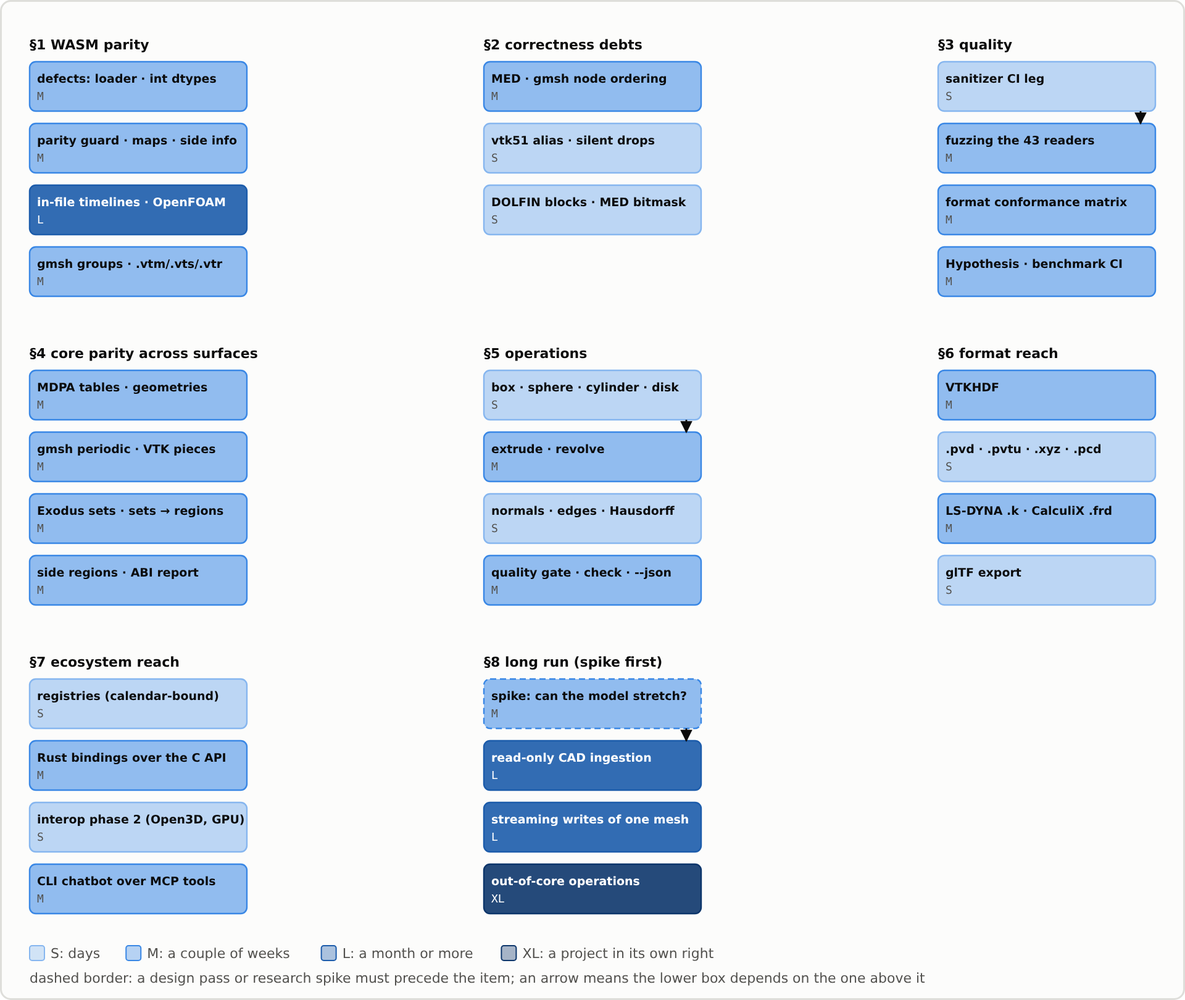
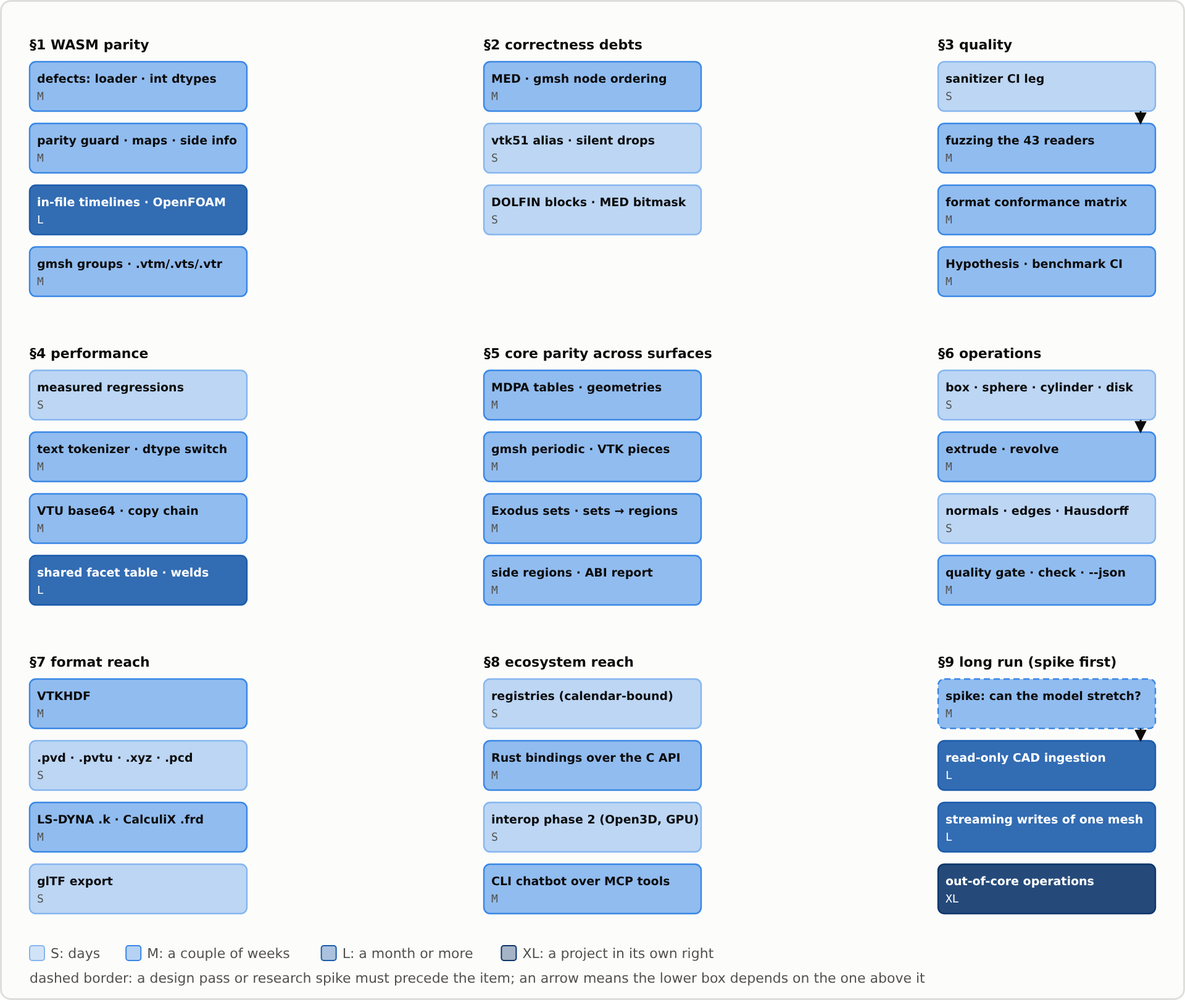
Update roadmap references in agglomerate operation documentation
- Corrected the section reference in the agglomerate operation header comment from §5 to §6 in `agglomerate.hpp` to reflect the updated roadmap structure.

diff --git a/doc/diagrams/figures/flows.py b/doc/diagrams/figures/flows.py
@@ -967,7 +967,17 @@ def roadmap_map():
             [(0, 1)],
         ),
         (
-            "§4 core parity across surfaces",
+            "§4 performance",
+            [
+                ("measured regressions", "S"),
+                ("text tokenizer · dtype switch", "M"),
+                ("VTU base64 · copy chain", "M"),
+                ("shared facet table · welds", "L"),
+            ],
+            [],
+        ),
+        (
+            "§5 core parity across surfaces",
             [
                 ("MDPA tables · geometries", "M"),
                 ("gmsh periodic · VTK pieces", "M"),
@@ -977,7 +987,7 @@ def roadmap_map():
             [],
         ),
         (
-            "§5 operations",
+            "§6 operations",
             [
                 ("box · sphere · cylinder · disk", "S"),
                 ("extrude · revolve", "M"),
@@ -987,7 +997,7 @@ def roadmap_map():
             [(0, 1)],
         ),
         (
-            "§6 format reach",
+            "§7 format reach",
             [
                 ("VTKHDF", "M"),
                 (".pvd · .pvtu · .xyz · .pcd", "S"),
@@ -997,7 +1007,7 @@ def roadmap_map():
             [],
         ),
         (
-            "§7 ecosystem reach",
+            "§8 ecosystem reach",
             [
                 ("registries (calendar-bound)", "S"),
                 ("Rust bindings over the C API", "M"),
@@ -1007,7 +1017,7 @@ def roadmap_map():
             [],
         ),
         (
-            "§8 long run (spike first)",
+            "§9 long run (spike first)",
             [
                 ("spike: can the model stretch?", "M"),
                 ("read-only CAD ingestion", "L"),

diff --git a/src/cpp/include/meshioplusplus/operations/agglomerate.hpp b/src/cpp/include/meshioplusplus/operations/agglomerate.hpp
@@ -97,7 +97,7 @@
  * Coplanar boundary-face merging (fusing two adjacent group-boundary faces on
  * the same plane into one larger polygon, rather than leaving the edge
  * between them) and a shape-quality (e.g. sphericity) absorption gate are
- * both deferred follow-ups, not shipped here — see `doc/roadmap.md` §5.
+ * both deferred follow-ups, not shipped here — see `doc/roadmap.md` §6.
  *
  * Everything is standard C++ and the uniform mesh API only, so it compiles
  * under every mesh backend. This is an operation, not a file format — it is

diff --git a/doc/roadmap.md b/doc/roadmap.md
@@ -10,7 +10,7 @@ Effort key: **S** = days, **M** = a couple of weeks, **L** = a month or more, **
 
 - **Sections are ordered, and the order is the recommendation.** Each section states what belongs in it; an item that sounds exciting does not move up for that reason. An empty section is removed, not kept as a placeholder.
 - **A closed item is removed, not struck through.** Its history is the `CHANGELOG.md` entry and the feature's own `doc/` page; a partly closed item is narrowed to what remains (the `AGENTS.md` change checklist rule).
-- **Defect-shaped items go to [§2](#_2-correctness-debts) regardless of size** — behaviour that loses data, mis-orients cells or fails silently is not a feature request, even when the fix and the feature are the same work.
+- **Defect-shaped items go to [§2](#_2-correctness-debts) regardless of size** — behaviour that loses data, mis-orients cells, does not terminate on valid input or fails silently is not a feature request, even when the fix and the feature are the same work.
 - **An item estimated from a doc, a `.d.ts` or a changelog alone says so** ("verify first") and names its probe; the code has repeatedly been more or less capable than its description.
 - **[Non-goals](#non-goals-and-decisions-taken) record decisions already taken**, with their reasons, so they are not re-proposed as gaps.
 
@@ -46,7 +46,7 @@ Effort key: **S** = days, **M** = a couple of weeks, **L** = a month or more, **
 - **In-file timelines.** Only XDMF, Exodus and GiD report real time values; each fix below is independent and closes a row of the downstream extension's transient audit (which pins today's behaviour, so each lands as a visible diff there). MED: a `read_med_metadata` filling `mTimeValues` (today metadata falls back to a full default read, which rejects a multi-step field — the sequence layer then closes for free, see [sequences](./sequences.md)). CGNS: `BaseIterativeData`/`ZoneIterativeData` and one solution per step, instead of every `FlowSolution` loading into the same name. Tecplot: every `ZONE` with its `SOLUTIONTIME`/`STRANDID`, instead of stopping at the first. Gmsh: `$NodeData`/`$ElementData` time tags, instead of keeping the first section per name. EnSight: a transient `model:` wildcard plus `VARIABLE`/`TIME`, instead of throwing on `*`. *Probe (each):* a two-step fixture whose `readMetadata(path).timeValues` has length 2. **L in total, S–M each**
 - **OpenFOAM beyond one polyMesh.** Read `cellZones`/`faceZones`/`pointZones` as cell/side/point regions, and write them back — the writer currently *deletes* existing zone files as stale. Select a region in multi-region cases (`constant/<region>/polyMesh`), reconstruct decomposed `processor*/` cases, and read time-directory `vol*Field`/`point*Field` dictionaries onto the mesh. *Lifts:* the downstream extension parsing time directories natively in TypeScript, and its zone and multi-region/decomposed diagnostics. *Probe:* a case with one `cellZones` entry round-tripped through `readMesh`/`writeMesh`. **M–L**
 - **Named groups surviving a Gmsh 4.1 export.** `$PhysicalNames` rows are emitted only for regions with a tag ≥ 0, and membership only exists where `gmsh:dim_tags` does, so groups read from Abaqus, MED or MDPA (tag −1) vanish in a `.msh` export. Allocate physical tags for untagged regions and write the `$Entities` that carry their membership. *Lifts:* the downstream "SubModelParts do not survive a gmsh export" constraint. *Probe:* an Abaqus `ELSET` round-tripped through `.msh`. **M**
-- **VTK XML structured and multiblock files.** `.vti` is the only structured XML format; there is no `.vts`/`.vtr` reader or writer and no `.vtm` at all. A `.vtm` writer is an index plus one piece file per block, with the pieces reported by the written-paths list above — the same index-plus-pieces machinery as `.pvd`/`.pvtu` in [§6](#_6-format-reach), so one implementation serves both. *Lifts:* the downstream extension's read-only multiblock and structured-grid support. *Probe:* write two blocks to `.vtm`, read them back as two meshes. **M**
+- **VTK XML structured and multiblock files.** `.vti` is the only structured XML format; there is no `.vts`/`.vtr` reader or writer and no `.vtm` at all. A `.vtm` writer is an index plus one piece file per block, with the pieces reported by the written-paths list above — the same index-plus-pieces machinery as `.pvd`/`.pvtu` in [§7](#_7-format-reach), so one implementation serves both. *Lifts:* the downstream extension's read-only multiblock and structured-grid support. *Probe:* write two blocks to `.vtm`, read them back as two meshes. **M**
 
 **Deliberately not**, and recorded so it is not re-proposed:
 
@@ -62,7 +62,7 @@ Effort key: **S** = days, **M** = a couple of weeks, **L** = a month or more, **
 
 ## 2. Correctness debts
 
-*Admission: behaviour that loses data, mis-orients cells, or drops something without saying so. First regardless of size, and each is independently shippable.*
+*Admission: behaviour that loses data, mis-orients cells, does not terminate on valid input, or drops something without saying so. First regardless of size, and each is independently shippable.*
 
 - **MED quadratic 3-D node ordering is not converted.** `tetra10`, `hexahedron20`, `pyramid13` and `wedge15` are read and written with a warning and no meshio++↔MED permutation in either engine (`src/cpp/src/formats/med.cpp`, `src/python/meshioplusplus/med/_med.py`), so they may be mis-oriented for Salome, code_aster and code_saturne — the tools the format exists for. The linear 3-D permutations beside them are the template. *Probe:* a Salome-written `tetra10`/`hexahedron20` fixture whose cell volumes are all positive after a read. **S–M**
 - **Gmsh `pyramid14` (and `wedge18`) node ordering is not permuted.** Both engines' reorder tables stop at `pyramid13`/`wedge15`, while [cell types](./cell_types.md) documents `pyramid14` as `pyramid13` plus a base-centre node and gmsh's own type 14 is edge-lexicographic. *Probe:* a gmsh-generated second-order pyramid whose base-centre node lies on the base plane after a read. **S, verify first**
@@ -70,6 +70,9 @@ Effort key: **S** = days, **M** = a couple of weeks, **L** = a month or more, **
 - **Writers that drop data without a warning.** The C++ AVS-UCD writer keeps only the first integer cell-data array, silently (the Python writer warns); the SVG and TikZ writers skip unsupported cell blocks with no warning at all ([SVG](./formats/svg.md), [TikZ](./formats/tikz.md)). Every other writer follows warn-and-skip, and provenance's conversion assumptions sweep those warnings. *Probe:* each writer under `pytest.warns`. **S**
 - **DOLFIN writes every cell-data block to the same sibling file.** `write_dolfin` loops over `CellDataNumBlocks` but names each file `<stem>_<name>.xml` without the block, so on a multi-block mesh the last block overwrites the earlier ones. Write the one simplicial block the mesh file actually holds, and pin it. *Probe:* two triangle blocks with distinct cell data; read the sibling back. **S, verify first**
 - **The C++ MED writer emits no MED 4.1 field bitmask attributes** (`LEN`/`LGC`/`LNA`/…), which the Python writer does; every flat binding and the native CLI use the C++ writer with no Python to defer to. The source calls this an interoperability gap with Salome/MEDCoupling, while [MED](./formats/med.md) calls the attributes required for medfile/mdump — establish which is true with `mdump` before sizing the fix. *Probe:* a C++-written, field-carrying `.med` opened by medfile. **S–M, verify first**
+- **VTU polyhedron reconstruction is quadratic in the cell count.** `reconstruct_cells` (`src/cpp/src/detail/vtk_cells.cpp`) finds where each polyhedral cell's face stream begins by rescanning `faceoffsets` from index 0 for the previous non-negative entry — Θ(n²) iterations, so 100k polyhedra cost ~5·10⁹ steps and a 1M-cell OpenFOAM-derived VTU effectively hangs. One running "last end offset" carried across the loop makes it linear. *Probe:* a 100k-polyhedron VTU that reads within a fixed time budget. **S**
+- **Number parsing follows the process locale.** 31 C++ readers parse with `strtod`/`strtoll` — chosen over `std::from_chars` because its floating-point overload is an Emscripten/libc++ hazard (`gid_read.cpp`) — and no first-party code pins `LC_NUMERIC`, so a host that adopts the environment's locale — Qt applications call `setlocale(LC_ALL, "")` at startup, as does any Python code that runs `locale.setlocale(locale.LC_ALL, "")` — may read `1.5` as `1` under a comma-decimal locale. A `detail/fast_number.hpp` that uses `from_chars`/`to_chars` where `<version>` reports `__cpp_lib_to_chars` and a C-locale `strtod_l` otherwise — the feature-test pattern `detail/format_compat.hpp` already uses — fixes it and is the base of the [§4](#_4-performance) text-I/O items. *Probe:* read an ASCII fixture from Python after `locale.setlocale(locale.LC_ALL, "de_DE.UTF-8")`. **S–M, verify first**
+- **Reader fallback prints to stdout and swallows the reason.** `read()` `print`s the error for every ambiguous-extension candidate that fails (a `.msh` tries `ansys`, `gmsh` and `freefem` in turn, `_helpers.py`), which pollutes a CLI pipeline's output, and over forty format packages wrap the C++ reader in `except Exception: pass`, so nobody can see why the fast path declined. Route both through `warnings`/logging and let only a recognised "not handled here" exception fall back. **S**
 
 ---
 
@@ -79,19 +82,76 @@ Effort key: **S** = days, **M** = a couple of weeks, **L** = a month or more, **
 
 - **A sanitizer CI leg** — ASan and UBSan over the existing `cpp-tests` job. No workflow passes `-fsanitize` today, and a fuzzer that finds a crash without one reports a symptom rather than the out-of-range read behind it. The precondition for the next item. **S**
 - **Fuzzing the readers** (libFuzzer, then OSS-Fuzz if the project is accepted). 43 mostly hand-rolled parsers are reachable from a C ABI, a browser, a VS Code extension and an MCP server — untrusted input reaches them by design. One fuzz target per `registry_readers()` entry, seeded from `tests/python/meshes/`. The highest-value non-feature item in this document. **M**
-- **A format conformance matrix** — one canonical mesh written to and read back from every writable format, asserting per format what survives (points, each cell type, point/cell/field data and their dtypes, each region kind) against a declared expectation. `tests/python/test_region_roundtrip.py` already does this for regions over Gmsh/Abaqus/MED, and `tests/cpp/test_sequence.cpp`'s `WriteSupportsTimeAgreesWithReality` is the registry-iterating shape to generalise it to. The declared expectations become a lossiness column in the [format table](./formats.md), which today has only Read/Write/dependencies, with lossiness scattered across its notes and fifty-five per-format quirks sections. The canonical mesh should be a primitive constructor from [§5](#_5-operations). **M**
+- **A format conformance matrix** — one canonical mesh written to and read back from every writable format, asserting per format what survives (points, each cell type, point/cell/field data and their dtypes, each region kind) against a declared expectation. `tests/python/test_region_roundtrip.py` already does this for regions over Gmsh/Abaqus/MED, and `tests/cpp/test_sequence.cpp`'s `WriteSupportsTimeAgreesWithReality` is the registry-iterating shape to generalise it to. The declared expectations become a lossiness column in the [format table](./formats.md), which today has only Read/Write/dependencies, with lossiness scattered across its notes and fifty-five per-format quirks sections. The canonical mesh should be a primitive constructor from [§6](#_6-operations). **M**
 - **Property-based testing** (Hypothesis) over the invariants the docs already articulate: partition-of-unity, volume conservation, conformity, byte-identical determinism, map composition. **M**
-- **A large-mesh benchmark tier with a CI leg.** The suite exists (`benchmark/`, up to ~1M synthetic tets in Python, 257k in the C++ backend benchmark, which is off by default) but no CI job runs any of it, so a performance regression is found by a user. Add a 10M+ cell tier and a scheduled job that records rather than gates; it also decides whether the two scale items in [§8](#_8-long-run-spike-first) matter at all. **S**
+- **A benchmark harness that covers what ships, with a CI leg.** The suite exists (`benchmark/`, up to ~1M synthetic tets in Python, 257k in the C++ backend benchmark, which is off by default) but no CI job runs any of it, so a performance regression is found by a user. It is also narrow: `benchmark/bench.py` times 6 format labels of the 43 the core reads, and [benchmarks](./benchmarks.md) has no numbers for any operation or for the parallel backends — `src/cpp/benchmark/bench_backends.cpp` compares mesh backends only. Widen `bench.py` to every registry format; add a `bench_ops.cpp` (`extract_surface`, `smooth`, `refine`, `merge`, `clean`, `compute_sdf`, `decimate`, `partition`, `reorder`) over a size sweep and SEQ/OpenMP/TBB/Kokkos; add a 10M+ cell tier; run it on a schedule that records rather than gates. Every [§4](#_4-performance) item is gated on this showing its before/after, and it decides whether the scale items in [§9](#_9-long-run-spike-first) matter at all. **S–M**
 - **Test and install the ParaView plugin.** `tools/paraview-meshioplusplus-plugin.py` ships as a reader and writer, but nothing tests it, and the `data_files` entry that would install it is commented out in `pyproject.toml`, so [its page](./paraview_plugin.md) describes a plugin path nothing writes. A `pvpython` smoke step plus the install fix. **S**
 
 ---
 
-## 4. Core parity across surfaces
+## 4. Performance
+
+*Admission: a measured or code-verified slowdown in a path a user hits, with the shape of the fix named. Nothing here is scheduled before the [§3](#_3-quality-of-implementation) harness can show its before/after.*
+
+Two findings frame the section. First, **the serial phases below are deliberate**: each is documented in the code as a determinism pin, not an oversight — output is byte-identical across parallel backends and thread counts, and the reference-file tests enforce it — so every fix must keep that guarantee and prove it with a SEQ-versus-OpenMP diff, not assert it. Second, **every parallel item is conditional on the backend**: a SEQ build (and the `stl` fallback without TBB) runs `parallel_for` sequentially, so each change must also show that SEQ does not get slower — a parallel sort is O(n log n) where the hash map it replaces is O(n).
+
+**Measured regressions** (verify first: `benchmark/results.csv` is one run on one machine). Gmsh binary write at 0.68× legacy meshio and MED read at 0.81–0.93×, both reported as parity or better in [benchmarks](./benchmarks.md) until this change; XDMF (HDF5) write at 0.92–0.97×; XDMF read at 1.0× on a single-block mesh against 10× on mixed topology, which suggests the post-read conversions — `xdmf.cpp` has no `parallel_for` at all. Re-measure on the widened harness, then profile. **S each to size**
+
+**Text I/O.**
+
+- **A shared tokenizer and number path.** 29 readers split each line with `std::istringstream` and `>>` into a `std::vector<std::string>` — one stream and N heap allocations per line (`su2.cpp`, `vtk_read.cpp`, `mdpa.cpp`, `avsucd.cpp`, `tecplot.cpp`, `unv.cpp`, `flac3d.cpp` and 22 more) — while `gmsh.cpp`'s `GmshCursor`, a `string_view` cursor calling `strtod` straight on the buffer, is the in-repo model to copy. Built on the `fast_number.hpp` from [§2](#_2-correctness-debts) and migrated reader by reader against the reference files. The worst cases: XDMF ASCII `DataItem`s (a `std::string` and a dtype switch per scalar), VTU ASCII arrays (`push_back` with no `reserve`, then a second pass with a dtype switch per element) and `mdpa.cpp`, which materializes one `std::string` per line of the whole file before parsing. **M**
+- **Hoist the per-element dtype switch.** `detail::dispatch_dtype` (`detail/value_io.hpp`) exists to move a `DType` switch out of a hot loop, and is used in 14 source files against nearly 500 per-element `read_double`/`read_int`/`read_point` call sites. In I/O the hot ones are the VTU ASCII writer and `vtu_to_int64` (`detail/vtk_xml.cpp`) and the Exodus reader's index shift, coordinate transpose and `column_stack` (`exodus.cpp`), which are also fully serial — the exact treatment MED already had, which took it from 0.2–0.6× to parity. **S each**
+- **Parallel row formatting in ASCII writers.** `abaqus.cpp` and `ansysinp.cpp` format rows in parallel into one string per row and stream them in order, with byte-identical output; `vtu`, `vtp`, `vtk`, `medit` and `tecplot` still format serially with a locale-aware `ostream << int` per index, and the OpenFOAM writer formats every coordinate through `ostream << std::setprecision(16)`, the slowest formatting route in the standard library. The reference files are the gate, not the claim — `setprecision(16)`'s exact output has to be reproduced. **S per writer**
+
+**Binary I/O (VTU).**
+
+- **`b64decode` is serial and pushes one byte at a time** (`detail/vtu_binary.cpp`), while `b64encode` beside it is parallel; decode is the VTU read hot path. Its inverse table is guarded by a hand-rolled `static bool init`, which is a data race as soon as decoding is parallel or the GIL is released — replace it with a magic static in the same change. A branchless resize-then-index loop first, then parallel chunks after a whitespace pre-scan (chunks are not independent without one). **S**
+- **The VTU binary read copies each payload five or six times**: `vtu_strip` copies the base64 text and then `substr`s it, `vtu_parse_binary` decodes into a `std::vector` and `memcpy`s that into the array, `vtu_decode_uncompressed` builds another vector to strip the header, and the codec returns one `std::vector` per 32 KiB block which is then copied again (on write, the blocks are concatenated with no `reserve`). Decode straight into the destination array; independent `<DataArray>`s can then decode in parallel. It roughly halves peak memory too. **M**
+- **Raw `<AppendedData>` is not supported** in either direction. It is the VTU encoding with no base64 at all, so files meshio++ writes could skip both items above; a format-reach item as much as a performance one. **M**
+
+**Memory and allocation.**
+
+- **Small, mechanical:** five readers slurp the file by hand instead of going through `detail/file_source.hpp` (`ply`, `medit`, `ansys`, `wkt`, `stl`), and several accumulate without `reserve` although the count is in the header (`gid_read.cpp`, `openfoam.cpp`, `ansysinp.cpp`, `unv.cpp`). **S**
+- **Per-cell heap allocations in every polyhedral reader.** `AddPolygonBlock`/`AddPolyhedronBlock` take nested `std::vector`s, so the CGNS, EnSight, MED, OpenFOAM, UNV, FLAC3D and VTU readers allocate one vector per cell and one per face; the VTU path additionally sorts each cell's nodes and buckets cells through a `std::map`. A CSR ingestion overload — flat node ids plus face and cell offsets, the shape the WASM binding already crosses with — removes all of it at once. It changes the installed API, so it pairs with an ABI bump. **M–L**
+
+**Serial phases inside parallel operations.**
+
+- **One shared, deterministic facet and edge table.** Seven places fill facet or edge keys in parallel and then deduplicate them through a single-threaded `unordered_map` (`surface.cpp`, `smooth.cpp`, `partition.cpp`, `convert_cells.cpp`, `refine.cpp`, `detail/marching.cpp`, `detail/surface_distance.cpp`) — on a 10M-tet mesh, ~40M hash operations on one core while the rest idle; it is the dominant phase of `extract_surface`, `extract_skin`, `smooth`, `partition`, `refine` and `elevate`. Nine independent key and hash types exist for it, and `detail/face_mesh.hpp` has only four consumers. `refine.cpp` already states the property a parallel version needs — numbering is a pure function of (block, cell, slot) — so a parallel sort of (key, slot) followed by a segmented first-occurrence scan reproduces it exactly there; the other six sites need that argument made before the claim. `parallel.hpp` has only `parallel_for`, so the first step is a `parallel_sort`/`parallel_reduce` primitive; the second is caching the table so an N-step pipeline stops rebuilding it N times. **L**
+- **`optimize_volume` rebuilds everything on every sweep** — a fresh `Mesh` with new point and connectivity arrays, `smooth`'s node adjacency and boundary hash, and three single-threaded `unordered_map`s for the 2-3 and 3-2 flips — with one `parallel_for` in the whole file. Hoist the adjacency out of the sweep and maintain the face and edge maps across flips. **S–M**
+- **Welding is single-threaded.** `clean` keeps its own point grid rather than `detail::SpatialGrid` (its header says so), reads each coordinate through the dtype switch, and deduplicates cells with a `std::string` built per cell as the hash key, alongside three per-cell vectors; `merge` scans 27 buckets per point on one core. Move to `SpatialGrid`, fixed-size keys and a chunked scan merged keep-first. **M**
+- **Distance-kernel construction is serial** — the triangle soup, edge table, pseudonormals and grid insertion (`detail/surface_distance.cpp`) — while its queries are parallel; `compute_sdf`, `shrinkwrap`, `voxelize`, `compute_curvature` and `repair` all pay it. A BVH is deliberately *not* the fix: `detail/surface_distance.hpp` rejects one because its visit order would make the equidistant-triangle tiebreak observable. **M**
+- **`reorder` sorts an index vector through an indirect comparator** after a serial bounding-box scan, and `partition`'s space-filling-curve path does the same; a radix sort on the 64-bit curve key replaces both. **S**
+- **Hoist the dtype switch in operations**, as in I/O: `refine` (29 call sites), `interpolate` (21), `convert_cells` (13), `repair` and `diff` (7 each), `partition` (6). **S each**
+- **Operations with no parallel phase at all**: `remesh` (serial clustering), `remesh_volume` (serial cut), `agglomerate` (a `std::set` and an `unordered_map` allocated per seed), `split`, `undo_green`, and `hessian` (two `gradient` passes plus deep copies). `compute_quality` (chunked partials merged in chunk order) and `sobolev_deform` (a gather-form sparse product) are the in-repo models. **L in total**
+- **Radius and k-nearest search in the core.** `proximity_graph` is numpy-only — its own docstring measures 200k points at 6.4 s for a radius graph and 23 s for k=16 on one core — while `detail::SpatialGrid` already has the needed primitives. Expose the neighbour search as a core operation the Python layer calls, keeping graph assembly in Python per [Non-goals](#non-goals-and-decisions-taken). **M**
+
+**Boundaries and startup.**
+
+- **The Python bindings never release the GIL.** Nothing in `bindings/python` uses `gil_scoped_release` or a `call_guard`, so a multi-gigabyte read or a 10M-cell operation blocks every other Python thread, and no caller can convert files in a thread pool. Release after the numpy→`Mesh` conversion and re-acquire before the `Mesh`→numpy one, once the `b64decode` table race above is fixed, auditing that no released region touches a Python object. **S–M**
+- **`import meshioplusplus` takes ~180–210 ms, ~160–190 ms of it the CLI.** The package `__init__` imports `_cli`, which imports every verb module, and `_common.py` imports `rich` for library use; every MCP process and CLI call pays it. Load `_cli` lazily through a module `__getattr__` and move `rich` into the CLI. The heavy optional dependencies (`h5py`, `netCDF4`, `torch`, `pxr`, `vtk`) are already imported inside functions. **S**
+- **A declined C++ read costs a full parse before the Python one starts.** `vtu_read.cpp` builds the whole XML DOM, base64 bodies included, before rejecting lzma, appended data or multiple pieces; `gmsh.cpp` rejects `$Periodic` only after `$Nodes` and `$Elements` are parsed; with an ambiguous extension one `.msh` can be parsed up to six times. A cheap pre-flight — attribute and section-header scans — before the expensive parse, with only early rejections falling back. Pairs with the [§2](#_2-correctness-debts) swallowing item; the durable fix is [§5](#_5-core-parity-across-surfaces)'s core parity. **S–M**
+- **The MCP server re-reads the input file on every tool call** — 65 call sites in `mcp/_tools.py` go through an uncached `_load()`, so an agent's info → clean → decimate → convert parses one file four times. A bounded cache keyed on (path, `mtime_ns`, size); anything weaker manufactures a stale-read bug. **S**
+- **pybind11 per-call overheads**, together: the `Mesh`→numpy conversion re-imports the `Mesh` class on every call, the contiguity check does a Python attribute lookup per array, operations clone connectivity they never change (`transform`), and polygon/polyhedron blocks cross the boundary one node id and one face at a time where the WASM binding already uses a CSR triple. **S–M**
+- **Flat-binding accessor copies**, together: R copies the points twice and shifts connectivity to 1-based with a scalar loop, and Julia's safe accessors `copy` the borrowed view; both are documented, and both are fixable behind the same accessor names. The WASM input side (a JS property read per element) is the code behind [§1](#_1-wasm-parity)'s dtype item and lands with it. **S**
+- **The browser viewer round-trips every operation result through a VTP file** — written into MEMFS, copied out with `.slice()`, then parsed again by vtk.js on the main thread. A typed-array mesh channel between worker and renderer removes three full passes. **L**
+
+**Deliberately not**, and recorded so it is not re-proposed:
+
+- **Explicit SIMD intrinsics or `-march` flags** — portability across wheels, WASM and the release binaries is worth more than the scalar kernels cost; revisit only if the harness shows a kernel dominating.
+- **Kokkos device execution** — every `parallel_for` body captures host pointers (`parallel.hpp`); the GPU route is the DLPack/CuPy handoff ([GPU handoff](./gpu.md)).
+- **A BVH in place of the uniform grid** — the tiebreak argument above.
+- **Tuning the pure-Python fallback readers** — the fix is making the C++ path accept the file ([§5](#_5-core-parity-across-surfaces)), not a faster fallback; `_decimate.py`'s heap-based twin is deleted once `decimate` accepts its inputs, not optimised.
+
+*Recommended posture:* the harness and the measured regressions first; then the small isolated wins — the polyhedron rescan in [§2](#_2-correctness-debts), `b64decode`, the lazy CLI import, `optimize_volume` — then the shared facet table, the largest total win; the boundary items as their consumers ask.
+
+---
+
+## 5. Core parity across surfaces
 
 *Admission: something the Python layer can do that the C++ core cannot, or that the core can do and a binding cannot reach.* A construct that forces the Python fallback is not "slower from C" — it is **unreadable** from C, Fortran, Julia, R, WASM and the native CLI, none of which has a fallback. Ordered by this project's own consumers, Kratos first.
 
 - **MDPA beyond mesh-level blocks.** The C++ core reads and writes `Nodes`/`Elements`/`Conditions`/`SubModelPart`s, but `Begin Table`, `Begin Geometries`, `Begin Mesh <id>`, `Begin Constraints` and non-numeric `ModelPartData` throw — or, under a lenient read, are skipped and listed in `MdpaInfo`, which no flat binding exposes ([MDPA](./formats/mdpa.md#c-core)). **M**
-- **Gmsh `$Periodic` in the C++ core**, both directions: a periodic 4.1 file is unreadable from every flat binding today ([Gmsh](./formats/gmsh.md)). Pairs with periodic node matching in [§5](#_5-operations). **S–M**
+- **Gmsh `$Periodic` in the C++ core**, both directions: a periodic 4.1 file is unreadable from every flat binding today ([Gmsh](./formats/gmsh.md)). Pairs with periodic node matching in [§6](#_6-operations). **S–M**
 - **VTK-family constructs the C++ readers refuse**: multi-`<Piece>` `.vtu` (the Python reader merges pieces) and legacy `.vtk` structured points, structured grid and rectilinear grid ([VTU](./formats/vtu.md), [VTK](./formats/vtk.md)). **S–M**
 - **XDMF 2 and XPath references** — the C++ core implements XDMF 3 only, and `Reference="XML"` `DataItem`s not at all ([XDMF](./formats/xdmf.md)). **M**
 - **MED multi-mesh files and profiles**, which are Python-only and not reachable even under a lenient C++ read ([MED](./formats/med.md)). **M**
@@ -104,7 +164,7 @@ Effort key: **S** = days, **M** = a couple of weeks, **L** = a month or more, **
 
 ---
 
-## 5. Operations
+## 6. Operations
 
 *Admission: a new operation, or a public face for machinery that already exists privately inside one.*
 
@@ -117,7 +177,7 @@ Effort key: **S** = days, **M** = a couple of weeks, **L** = a month or more, **
 
 **Analysis and editing.**
 
-- **`compute_normals`** as attachable point and cell data. Angle-weighted pseudonormals are already computed inside `distance_to_surface` and never exposed; a public op is the prerequisite for glTF export ([§6](#_6-format-reach)) and for shading in the viewers. **S**
+- **`compute_normals`** as attachable point and cell data. Angle-weighted pseudonormals are already computed inside `distance_to_surface` and never exposed; a public op is the prerequisite for glTF export ([§7](#_7-format-reach)) and for shading in the viewers. **S**
 - **Feature edges as a line mesh.** The feature-angle crease test exists three times (`decimate`, `smooth`, `remesh` each carry `mFeatureAngleDeg`) and only ever pins nodes; one public op emitting `line` cells serves inspection, boundary-condition picking and those three in one place. **S**
 - **Hausdorff distance** between two meshes — a symmetric max-reduction over the shipped `distance_to_surface`, returning the scalar the remesh/decimate tests and the conformance matrix want to assert on. **S**
 - **Periodic node-pair matching** — given two boundary regions and a transform, return the matched node pairs. `$Periodic` already round-trips as metadata and `proximity_graph` already does minimum-image search; Kratos periodic conditions are the consumer. **S–M**
@@ -128,7 +188,7 @@ Effort key: **S** = days, **M** = a couple of weeks, **L** = a month or more, **
 
 ---
 
-## 6. Format reach
+## 7. Format reach
 
 *Admission: a format a simulation or physics-ML workflow actually exchanges, or the missing half of a shipped one.*
 
@@ -144,7 +204,7 @@ Effort key: **S** = days, **M** = a couple of weeks, **L** = a month or more, **
 
 ---
 
-## 7. Ecosystem reach
+## 8. Ecosystem reach
 
 *Admission: getting what exists to the people who would use it.*
 
@@ -169,7 +229,7 @@ Effort key: **S** = days, **M** = a couple of weeks, **L** = a month or more, **
 
 ---
 
-## 8. Long run (spike first)
+## 9. Long run (spike first)
 
 *Admission: work whose shape is unknown until an investigation writes it down. Findings before code.*
 
@@ -196,7 +256,7 @@ Recorded so they are not re-proposed as gaps. Surface-specific decisions stay wi
 
 - **MPI in the library** — none planned ([C++ API](./cpp_api.md)); `partition`'s ghost layers produce the halo an MPI assembly in the owning application needs.
 - **Solver-coupled physics-ML** — assembled solver residuals, adjoints and Sobolev training, co-simulation, active-learning *labeling*, adaptive remeshing driven by a surrogate, and MPI model-part gathering. Every one needs a live solver (an assembly routine, its tangent, its communicator) and meshio++ has no notion of a discrete system; they belong in the application that owns the solver, the division [Symbolic and physics](physicsnemo/symbolic_and_physics.md) describes.
-- **The Python-only layers stay Python** — `pmsh`, `zarr`, `cae` and `usd`, and the physics-ML surface (`tessellate`, grids, point budgets, proximity graphs, datasets, training) are export targets and tooling for a training pipeline, registered in Python rather than the shared C++ registry.
+- **The Python-only layers stay Python** — `pmsh`, `zarr`, `cae` and `usd`, and the physics-ML surface (`tessellate`, grids, point budgets, proximity graphs, datasets, training) are export targets and tooling for a training pipeline, registered in Python rather than the shared C++ registry. A core kernel they call (the neighbour search in [§4](#_4-performance)) does not change that.
 - **Polyscope in the release CLI binaries** — excluded deliberately, so `view`/`screenshot` there report the build flag rather than opening a window ([viewer](./viewer.md)).
 - **General meshing algorithms as operations** — hex and hex-dominant meshing, boolean/CSG, boundary-layer inflation, quadrangulation and geodesic distance are each a library in their own right; the answer is an optional backend (the KaHIP pattern), not a native implementation.
 
@@ -209,8 +269,9 @@ Open work only; what shipped is in `CHANGELOG.md`.
 1. **WASM parity ([§1](#_1-wasm-parity))** — the loader and dtype defects and the parity guard first; the JS-surface items next (no core change, no ABI bump); its core format gaps one at a time, each against its probe.
 2. **Correctness debts ([§2](#_2-correctness-debts))** — small, independent, and any of them can be picked up between larger items; the MED and gmsh ordering pair first, since a mis-oriented cell is invisible until a solver rejects it.
 3. **Sanitizer leg, then fuzzing ([§3](#_3-quality-of-implementation))** — a parallel track from day one; it does not compete for the same attention as features.
-4. **Primitive constructors ([§5](#_5-operations))** — a few days, and a prerequisite of the conformance matrix, every demo surface and `extrude`/`revolve`.
-5. **Core parity ([§4](#_4-core-parity-across-surfaces))** — MDPA first, then Side-region survival and sets → regions, then the rest by consumer demand.
-6. **Format reach ([§6](#_6-format-reach))** — `.pvd`/`.pvtu` together with §1's `.vtm`, VTKHDF after them; `compute_normals` before glTF.
-7. **Registration ([§7](#_7-ecosystem-reach))** — calendar-bound, so start the submissions early and let them run alongside everything else.
-8. **Long-run spikes ([§8](#_8-long-run-spike-first))** — the benchmark tier decides the scale items; the NURBS spike is scheduled independently of the rest.
+4. **Performance ([§4](#_4-performance))** — the harness and the measured regressions first, then the isolated wins (the polyhedron rescan, `b64decode`, the lazy CLI import, `optimize_volume`), then the shared facet table.
+5. **Primitive constructors ([§6](#_6-operations))** — a few days, and a prerequisite of the conformance matrix, every demo surface and `extrude`/`revolve`.
+6. **Core parity ([§5](#_5-core-parity-across-surfaces))** — MDPA first, then Side-region survival and sets → regions, then the rest by consumer demand.
+7. **Format reach ([§7](#_7-format-reach))** — `.pvd`/`.pvtu` together with §1's `.vtm`, VTKHDF after them; `compute_normals` before glTF.
+8. **Registration ([§8](#_8-ecosystem-reach))** — calendar-bound, so start the submissions early and let them run alongside everything else.
+9. **Long-run spikes ([§9](#_9-long-run-spike-first))** — the benchmark tier decides the scale items; the NURBS spike is scheduled independently of the rest.

diff --git a/doc/benchmarks.md b/doc/benchmarks.md
@@ -11,8 +11,8 @@ meshio++ moves the parsing/serialising hot loops into C++, so the win is largest
 - **VTU binary + zlib** — the zlib block compression parallelises across cores (the C++ core defaults to an **OpenMP** backend with dynamic scheduling, which also load-balances hybrid P+E-core CPUs), so this is the biggest win: **~16× write**, ~2.3× read.
 - **VTU ASCII** — the C++ number formatter and parser are several times faster than the Python/numpy text path (~7× write, ~5× read).
 - **XDMF read** — much faster on mixed-topology meshes (~10× on the bracket), roughly even on a single-block mesh.
-- **MED (HDF5)** — with the Eigen-backed Fortran↔C transpose fused with the node reorder, MED is now at parity or better (~1.2× write, ~1.0× read).
-- **Gmsh binary** — the writer buffers each block into one `write`, and the reader decodes straight from the slurped buffer into an owning array that is *moved* into the cell block (no copy): ~1.4× write, **~1.8× read**.
+- **MED (HDF5)** — with the Eigen-backed Fortran↔C transpose fused with the node reorder, MED writes faster (~1.1× in `benchmark/results.csv`) but still reads slightly slower than pure Python (0.81–0.93×); closing that is a [roadmap](./roadmap.md#_4-performance) item.
+- **Gmsh binary** — the reader decodes straight from the slurped buffer into an owning array that is *moved* into the cell block (no copy), so reads are **~1.7×** faster; the writer buffers each block into one `write`, yet currently measures **0.68×** in `benchmark/results.csv` — a regression recorded in the [roadmap](./roadmap.md#_4-performance).
 - **VTK binary** — writes at parity (fused gather+byte-swap, one `write`). Reads now **beat** pure-Python both on single-cell-type meshes (~1.45×, the connectivity `NDArray` is moved straight into the cell block) and on mixed-topology meshes (**~1.1×** on the bracket, up from ~0.4× originally): reader output buffers skip the zero-fill they immediately overwrite, and the per-type block copy is chunked across threads so its first-touch page faults are serviced concurrently. Endianness conversion uses single-instruction `bswap` intrinsics throughout.
 
 For **plain binary dumps**, pure-Python meshio streams the whole array through numpy's `fromfile`/`tofile` at C speed — a high bar — but with the redundant connectivity copies removed (the reader now *adopts* the byte-swapped buffer as the cell array in the common single-type case), meshio++'s VTK/Gmsh reads now land **at or above parity** there. HDF5 (MED, XDMF) is even-to-faster. A Python-only format (MDPA) is the ~1× control.

diff --git a/doc/mmap.md b/doc/mmap.md
@@ -28,7 +28,7 @@ A mapped buffer behaves as if NUL-terminated only because the kernel zero-fills 
 
 ## Coverage
 
-Every whole-file reader now goes through `FileSource`: **gmsh** (which additionally honours an explicit `ReadOptions::mMmap`), **vtk**, **ensight**, **ugrid**'s ASCII branch and **openfoam**.
+Six whole-file readers go through `FileSource`: **gmsh** (which additionally honours an explicit `ReadOptions::mMmap`), **vtk**, **ensight**, **ugrid**'s ASCII branch, **openfoam** and **gid**'s ASCII reader. Five still read the whole file into a string by hand — **ply**, **medit**, **ansys**, **wkt** and **stl** — and moving them over is a [roadmap](./roadmap.md#_4-performance) item.
 
 `openfoam` gained the most: it previously slurped via `ostringstream` + `.str()`, paying for **two** extra full-file copies on top of the read, both of which are now gone.
 
